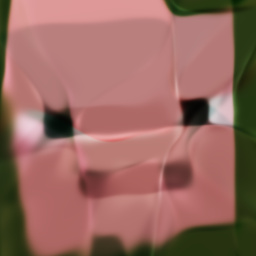
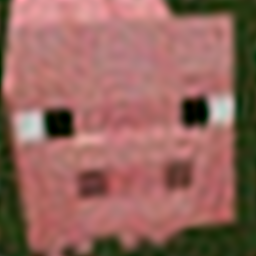
Add SIREN support

diff --git a/examples/inr/main.cpp b/examples/inr/main.cpp
@@ -12,11 +12,10 @@
 
 NeuralNetwork nn;
 const char* imgPath = "./img/img.png";
-const char* outPath = "./res.png";
 int width, height;
 
 // Create the neural representation of the image and save it into `outPath`
-void createImage() {
+void createImage(const char* outPath) {
 	const int outWidth = 512, outHeight = 512;
 	unsigned char* data = new unsigned char[outWidth * outHeight * 3];
 	#pragma omp parallel for collapse(2) // Parallelize each iteration
@@ -27,7 +26,9 @@ void createImage() {
 			double x = static_cast<double>(j) / (outWidth - 1) * 2 - 1;
 			NNMatrix rgb = nn.run(NNMatrix::fromVector({x, y}));
 			for (int c = 0; c < 3; c++) {
-				data[3 * idx + c] = rgb[c][0] * 255;
+				// Normalize and clamp from (-1, 1) to (0, 255)
+				double pixel = (rgb[c][0] + 1) * 127.5;
+				data[3 * idx + c] = std::max(0.0, std::min(255.0, pixel));
 			}
 		}
 	}
@@ -41,10 +42,10 @@ std::vector<std::pair<NNMatrix, NNMatrix>> batch;
 // Load a the image from `imgPath` and create training batch data
 void loadImage() {
 	// Load the image data and metadata such as width and height (0 ignores the number of channels)
-    unsigned char* data = stbi_load(imgPath, &width, &height, 0, 3); // 3 channels expected (RGB)
-    if (data == NULL) {
-        throw std::runtime_error("Error loading image: " + std::string(stbi_failure_reason()));
-    }
+	unsigned char* data = stbi_load(imgPath, &width, &height, 0, 3); // 3 channels expected (RGB)
+	if (data == NULL) {
+		throw std::runtime_error("Error loading image: " + std::string(stbi_failure_reason()));
+	}
 	batch.resize(height * width);
 	#pragma omp parallel for collapse(2) // Parallelize each iteration
 	for (int i = 0; i < height; i++) {
@@ -56,26 +57,25 @@ void loadImage() {
 			sample.first = NNMatrix::fromVector({x, y});
 			sample.second.resize(3,1);
 			for (int c = 0; c < 3; c++) {
-				sample.second[c][0] = static_cast<double>(data[3 * idx + c]) / 255;
+				// Normalize from (0, 255) to (-1, -1)
+				sample.second[c][0] = (static_cast<double>(data[3 * idx + c]) / 127.5) - 1;
 			}
 			batch[idx] = sample;
 		}
 	}
-    stbi_image_free(data);
+	stbi_image_free(data);
 }
 
 // In this example, we will try to get the network to learn an image with an Implicit Neural Representation(INR)
-// To do this, the image is first squished into a square with sides normalised to (-1, 1)
+// To do this, the image is first squished into a square with coordinates and RGB values normalised to (-1, 1)
 // Then, it approximates a function f(x,y) => {r,g,b}
 // This script loads the image data, trains the network and creates a resulting image approximation
 int main() {
-	nn.addLayer<DenseLayer>(2, 32);
-	nn.addLayer<ActivationLayer>(32, NNActivationType::Tanh);
-	nn.addLayer<DenseLayer>(32, 32);
-	nn.addLayer<ActivationLayer>(32, NNActivationType::Tanh);
+	nn.addLayer<SIRENLayer>(2, 32);
+	nn.addLayer<SIRENLayer>(32, 32);
 	nn.addLayer<DenseLayer>(32, 3);
-	nn.addLayer<ActivationLayer>(3, NNActivationType::Sigmoid);
-	NNInitialization::xavierNormal(nn);
+	NNInitialization::xavierUniform(nn);
+	NNInitialization::SIRENInit(nn);
 	nn.setLossFunction(NNLossType::MSE);
 
 	// If there exists a data file `./nn.dat`, read from it
@@ -86,11 +86,10 @@ int main() {
 	// Train the network with adam
 	loadImage();
 	NNTrainer trainer(nn, batch);
-	trainer.learningRate = 0.1;
 	trainer.epochCallback = []() { std::cout << "Epoch " << nn.epochsTrained << "\n"; };
 	trainer.train(NNOptimizerType::Adam, 100);
 	std::cout << "Training finished." << std::endl;
-	createImage();
+	createImage("./res.png");
 
 	// Write network data to `./nn.dat`
 	std::ofstream out("./nn.dat", std::ios::binary);

diff --git a/layer.hpp b/layer.hpp
@@ -134,6 +134,82 @@ public:
 	}
 };
 
+class SIRENLayer : public Layer {
+public:
+	NNMatrix W, B, lastZ;
+	double omega0 = 1.0;
+	SIRENLayer(int in, int out) : Layer(in, out) {
+		W.resize(out, in);
+		B.resize(out, 1);
+		params = { std::ref(W), std::ref(B) };
+		grads.resize(2);
+		grads[0].resize(out, in);
+		grads[1].resize(out, 1);
+	}
+
+	NNMatrix run(const NNMatrix& x) override {
+		NNMatrix z = NNMatrix::dot(W, x) + B; // z = W . x + B
+		z.forEach([this](double *val, int, int) {
+			*val = std::sin(omega0 * *val); // y = sin(omega0 * z)
+		});
+		return z;
+	}
+	NNMatrix forward(const NNMatrix& x) override {
+		lastInput = x;
+		NNMatrix z = NNMatrix::dot(W, x) + B; // z = W . x + B
+		lastZ = z;
+		z.forEach([this](double *val, int, int) {
+			*val = std::sin(omega0 * *val); // y = sin(omega0 * z)
+		});
+		return z;
+	}
+	NNMatrix backward(const NNMatrix& dy) override {
+		NNMatrix dz = lastZ; // dz = dy * omega0 cos(omega0 * z)
+		dz.forEach([this, &dy](double *val, int i, int j) {
+			*val = dy[i][j] * omega0 * std::cos(omega0 * *val);
+		});
+		grads[0] = NNMatrix::dot(dz, lastInput.transpose()); // dW = dz . x^T
+		grads[1] = dz; // dB = dz
+		return NNMatrix::dot(W.transpose(), dz); // dx = W^T . dz
+	}
+
+	void save(std::ofstream& out) override {
+		// Write the layer type
+		const std::string type = "SIREN";
+		uint32_t size = type.size();
+		out.write(reinterpret_cast<const char*>(&size), sizeof(uint32_t));
+		out.write(type.c_str(), size);
+		// Write the number of input and output neurons
+		out.write(reinterpret_cast<const char*>(&inCount), sizeof(int));
+		out.write(reinterpret_cast<const char*>(&outCount), sizeof(int));
+		// Write omega0
+		out.write(reinterpret_cast<const char*>(&omega0), sizeof(double));
+		// Write the weights and biases
+		for (NNMatrix& param : params) {
+			param.forEach([&out](double *val, int, int) {
+				out.write(reinterpret_cast<const char*>(val), sizeof(double));
+			});
+		}
+	}
+	static std::unique_ptr<SIRENLayer> load(std::ifstream& in) {
+		// Layer type was read by static Layer::load
+		// Read the number of input and output neurons
+		int inCount, outCount;
+		in.read(reinterpret_cast<char*>(&inCount), sizeof(int));
+		in.read(reinterpret_cast<char*>(&outCount), sizeof(int));
+		std::unique_ptr<SIRENLayer> layer = std::make_unique<SIRENLayer>(inCount, outCount);
+		// Read omega0
+		in.read(reinterpret_cast<char*>(&layer->omega0), sizeof(double));
+		// Read the weights and biases
+		for (NNMatrix& mat : layer->params) {
+			for (int i = 0; i < mat.rows(); i++) {
+				in.read(reinterpret_cast<char*>(mat[i].data()), mat.cols() * sizeof(double));
+			}
+		}
+		return layer;
+	}
+};
+
 std::unique_ptr<Layer> Layer::load(std::ifstream& in) {
 	std::string type;
 	uint32_t size = 0;
@@ -142,6 +218,7 @@ std::unique_ptr<Layer> Layer::load(std::ifstream& in) {
 	in.read(&type[0], size);
 	if (type == "Activation") return ActivationLayer::load(in);
 	if (type == "Dense") return DenseLayer::load(in);
+	if (type == "SIREN") return SIRENLayer::load(in);
 	throw std::runtime_error("Unknown layer type found.");
 }
 

diff --git a/inits.hpp b/inits.hpp
@@ -70,6 +70,27 @@ namespace NNInitialization {
 		}
 		nn.iterationsTrained = nn.epochsTrained = 0;
 	}
+	// SIREN weight initialization
+	// Initialize first layer omega0 with 30.0 by default and weights uniformly across +- 1/in
+	// Initialize other layer weights uniformly across +- sqrt(6/in)/omega0
+	inline void SIRENInit(NeuralNetwork& nn, double omega0 = 30.0) {
+		std::mt19937 gen(static_cast<unsigned int>(std::chrono::high_resolution_clock::now().time_since_epoch().count()));
+		for (int i = 0; i < nn.depth; i++) {
+			SIRENLayer* layer = dynamic_cast<SIRENLayer*>(nn.layers[i].get());
+			if (layer == nullptr) continue; // Continue for non-SIRENLayers
+
+			double limit = std::sqrt(6.0 / layer->inCount) / layer->omega0;
+			if (i == 0) {
+				limit = 1.0 / layer->inCount;
+				layer->omega0 = omega0;
+			}
+			std::uniform_real_distribution<double> dis(-limit, limit);
+			layer->W.forEach([&dis, &gen](double *val, int, int) {
+				*val = dis(gen);
+			});
+		}
+		nn.iterationsTrained = nn.epochsTrained = 0;
+	}
 
 	// Bias initialization functions
 
